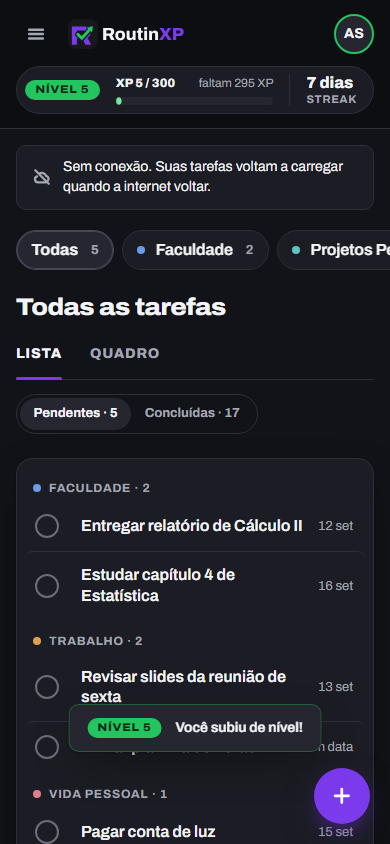
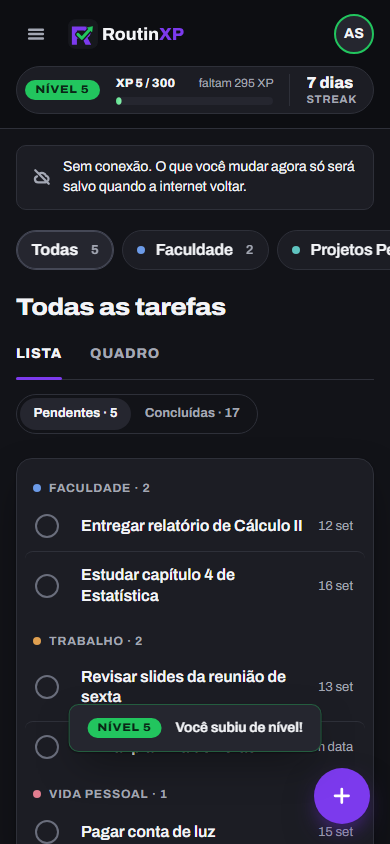
Passo 12: correções da revisão final do Impeccable
- Convite para instalar com botão de link (sem segundo roxo na tela)
- Aviso offline diz que alterações só salvam com internet; lembrete de streak espera
- Passo a passo vale para iPhone e iPad, Safari ou outro navegador
- Versão do service worker inclui manifest e ícones de public/
- Splash do Android na cor do ícone; ícone maskable recentrado
- "Entendi" também encerra o convite; região de status sempre montada

Changed region(s): [[0.1538, 0.1848, 0.9231, 0.2464]]

diff --git a/src/components/ConviteInstalar.jsx b/src/components/ConviteInstalar.jsx
@@ -1,40 +1,21 @@
-import { useState } from 'react'
 import { IconeBaixar, IconeFechar } from './icones'
+import { dispensarConvite, useConviteDispensado } from '../lib/instalacao'
 import { t } from '../i18n/pt-BR'
-
-const CHAVE = 'routinxp:instalar:dispensado'
-
-function lerDispensado() {
-  try {
-    return localStorage.getItem(CHAVE) === '1'
-  } catch {
-    return false
-  }
-}
 
 // Convite discreto para instalar o app, só no celular (o CSS esconde no computador,
 // onde o item "Instalar app" do menu basta). Dispensado uma vez, não volta.
 export function ConviteInstalar({ onInstalar }) {
-  const [dispensado, setDispensado] = useState(lerDispensado)
+  const dispensado = useConviteDispensado()
   if (dispensado) return null
-
-  function dispensar() {
-    setDispensado(true)
-    try {
-      localStorage.setItem(CHAVE, '1')
-    } catch {
-      /* sem armazenamento: some só nesta sessão */
-    }
-  }
 
   return (
     <div className="lembrete convite-instalar">
       <IconeBaixar />
       <p>{t.instalar.convite}</p>
-      <button type="button" className="btn btn--compacto" onClick={onInstalar}>
+      <button type="button" className="link-btn" onClick={onInstalar}>
         {t.instalar.acao}
       </button>
-      <button type="button" className="lembrete__fechar" onClick={dispensar} aria-label={t.instalar.dispensar}>
+      <button type="button" className="lembrete__fechar" onClick={dispensarConvite} aria-label={t.instalar.dispensar}>
         <IconeFechar />
       </button>
     </div>

diff --git a/src/pages/Shell.jsx b/src/pages/Shell.jsx
@@ -94,13 +94,17 @@ export default function Shell({ session }) {
             onAbrirMenu={() => setGavetaAberta(true)}
             gavetaAberta={gavetaAberta}
           />
-          {!online && (
-            <div className="lembrete" role="status">
-              <IconeSemConexao />
-              <p>{t.conexao.offline}</p>
-            </div>
-          )}
-          <LembreteStreak stats={d.stats} />
+          {/* Região de status sempre montada: leitor de tela anuncia quando a conexão cai. */}
+          <div role="status">
+            {!online && (
+              <div className="lembrete">
+                <IconeSemConexao />
+                <p>{t.conexao.offline}</p>
+              </div>
+            )}
+          </div>
+          {/* Offline, o lembrete de streak espera: concluir agora não salvaria. */}
+          {online && <LembreteStreak stats={d.stats} />}
           {/* Um aviso por vez: o convite para instalar espera o lembrete de streak sair. */}
           {online && modoInstalacao && !streakEmRisco(d.stats, hojeBrasilia()) && <ConviteInstalar onInstalar={instalar} />}
           <Outlet context={{ session }} />

diff --git a/vite.config.js b/vite.config.js
@@ -19,11 +19,13 @@ const PUBLICOS = [
 // calculada do conteúdo: qualquer mudança no app vira uma versão nova do service worker.
 function serviceWorker() {
   let saida = 'dist'
+  let publico = 'public'
   return {
     name: 'routinxp-service-worker',
     apply: 'build',
     configResolved(config) {
       saida = config.build.outDir
+      publico = config.publicDir
     },
     writeBundle(_, bundle) {
       const hash = createHash('sha256')
@@ -33,6 +35,9 @@ function serviceWorker() {
         gerados.push(`/${nome}`)
         hash.update(nome).update(item.type === 'chunk' ? item.code : item.source)
       }
+      // Os arquivos de public/ também entram na versão: trocar um ícone ou o manifest
+      // gera um service worker novo, e o app instalado busca a versão nova.
+      for (const arquivo of PUBLICOS) hash.update(arquivo).update(readFileSync(join(publico, arquivo)))
       const arquivos = [...new Set([...gerados, ...PUBLICOS])].sort()
       const modelo = readFileSync(new URL('./pwa/sw.js', import.meta.url), 'utf8')
       const sw = modelo

diff --git a/src/i18n/pt-BR.js b/src/i18n/pt-BR.js
@@ -145,9 +145,9 @@ export const t = {
     acao: 'Instalar',
     dispensar: 'Dispensar convite para instalar',
     ios: {
-      titulo: 'Instalar no iPhone',
-      texto: 'O iPhone instala pelo menu do Safari:',
-      passo1: 'Toque em Compartilhar, na barra do Safari.',
+      titulo: 'Instalar na tela de início',
+      texto: 'No iPhone e no iPad, a instalação é feita pelo navegador:',
+      passo1: 'Toque em Compartilhar. Ele fica na barra do navegador ou dentro do botão de mais opções (•••).',
       passo2: 'Escolha "Adicionar à Tela de Início".',
       passo3: 'Toque em "Adicionar". O RoutinXP aparece junto dos seus apps.',
       ok: 'Entendi',
@@ -155,7 +155,7 @@ export const t = {
   },
 
   conexao: {
-    offline: 'Sem conexão. Suas tarefas voltam a carregar quando a internet voltar.',
+    offline: 'Sem conexão. O que você mudar agora só será salvo quando a internet voltar.',
   },
 
   lembrete: {

diff --git a/src/lib/instalacao.js b/src/lib/instalacao.js
@@ -51,6 +51,30 @@ export function useInstalacao() {
   return useSyncExternalStore(assinar, modoInstalacao, () => null)
 }
 
+// Convite dispensado (pelo X da faixa ou pelo "Entendi" do passo a passo): não volta mais.
+const CHAVE_DISPENSADO = 'routinxp:instalar:dispensado'
+let dispensado = (() => {
+  try {
+    return localStorage.getItem(CHAVE_DISPENSADO) === '1'
+  } catch {
+    return false
+  }
+})()
+
+export function useConviteDispensado() {
+  return useSyncExternalStore(assinar, () => dispensado, () => true)
+}
+
+export function dispensarConvite() {
+  dispensado = true
+  try {
+    localStorage.setItem(CHAVE_DISPENSADO, '1')
+  } catch {
+    /* sem armazenamento: some só nesta sessão */
+  }
+  avisar()
+}
+
 // Abre a janela de instalação do navegador. Cada aviso do navegador só pode ser usado uma vez.
 export async function pedirInstalacao() {
   if (!pedido) return

diff --git a/src/components/DialogoInstalarIos.jsx b/src/components/DialogoInstalarIos.jsx
@@ -1,6 +1,7 @@
 import { useRef } from 'react'
 import { Dialogo } from './Dialogo'
 import { IconeCompartilhar } from './icones'
+import { dispensarConvite } from '../lib/instalacao'
 import { t } from '../i18n/pt-BR'
 
 const i = t.instalar.ios
@@ -25,7 +26,15 @@ export function DialogoInstalarIos({ onFechar }) {
         <li>{i.passo3}</li>
       </ol>
       <div className="dialogo__acoes">
-        <button type="button" className="btn" onClick={() => ref.current?.close()}>
+        <button
+          type="button"
+          className="btn"
+          onClick={() => {
+            // No iPhone o navegador não avisa quando o app é instalado: "Entendi" encerra o convite.
+            dispensarConvite()
+            ref.current?.close()
+          }}
+        >
           {i.ok}
         </button>
       </div>
